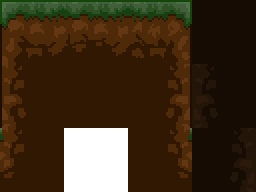
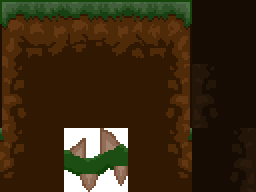
this isnt working on my pc and i dont know why so im pushing to a different branch to try it on my laptop

Changed region(s): [[0.25, 0.6562, 0.5, 1.0]]

diff --git a/js/levelOneState.js b/js/levelOneState.js
@@ -140,6 +140,7 @@ levelOneState.prototype.create = function() {
 levelOneState.prototype.update = function() {
 	game.physics.arcade.collide(this.player, this.walls);
 	game.physics.arcade.collide(this.player, this.platform3DGroup);
+	game.physics.arcade.overlap(this.player, this.danger, this.gameFunctions.kill, null, this);
 	
 	// Do parallax
 	this.doParallax(this);
@@ -530,10 +531,14 @@ levelOneState.prototype.createLevel = function() {
 	this.map.addTilesetImage('FantasyTiles', 'level1tiles');
 	
 	this.background = this.map.createLayer('background');
+	this.danger = this.map.createLayer('danger');
     this.walls = this.map.createLayer('walls');
-	this.map.setCollisionBetween(1, 100, true, 'walls');
+	this.map.setCollisionBetween(1, 1000, true, 'walls');
+	this.map.setCollisionBetween(1, 1000, true, 'danger');
 	this.walls.resizeWorld();
 }
+
+
 
 /*levelOneState.prototype.findObjectsByType = function(type, map, layer) {
     let result = new Array();

diff --git a/js/gameplayFunctions.js b/js/gameplayFunctions.js
@@ -260,3 +260,9 @@ gameplayFunctions.prototype.setPlatformPhysics = function(plat) {
 			}
 		}
 	}
+	
+gameplayFunctions.prototype.kill = function(player) {
+	player.kill();
+}
+	
+	
